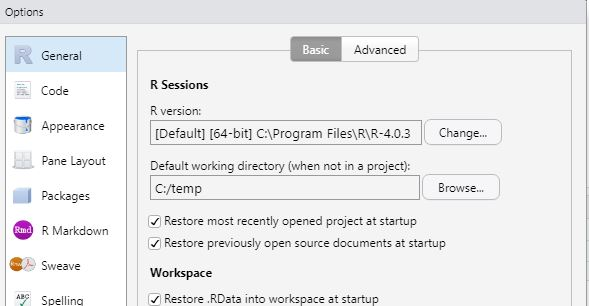
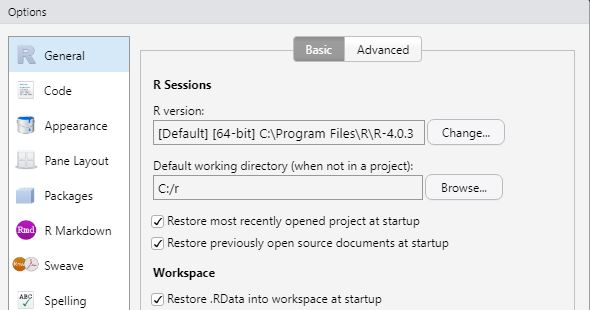
auto

Changed region(s): [[0.0, 0.0, 1.0, 1.0], [0.0, 0.0294, 0.0917, 0.0588]]

diff --git a/_posts/2020-11-18-xr with tidyverse beginners guide.md b/_posts/2020-11-18-xr with tidyverse beginners guide.md
@@ -12,6 +12,28 @@ image: /assets/2020-10-27/davemateer.jpg
 
 <!-- [![alt text](/assets/2020-10-12/db.jpg "Db from Caspar Camille Rubin on Unsplash")](https://unsplash.com/@casparrubin) -->
 
+> Data Science:
+> Transforming your data into actionable insight.
+
+As a SaaS business owner this could be as simple as:
+
+- Making sure my servers are running
+- Keeping a close eye on application 4xx and 5xx webserver errors
+- Memory usage
+
+It could also be how to display reports well for example in my broken link checker product, how to display a large amount of data... and make ie easily actionable
+
+
+
+This article covers:
+
+- What is R
+- Tidying Data
+- Charting
+
+[Here is the next article covering Linear Regression](/2020/11/19/xlinear-regression)
+
+
 ## What is R
 
 [r-project.org](https://www.r-project.org/) is a programming language that implements statistics and graphical techniques
@@ -25,8 +47,14 @@ R is an implmentation of S combined with semantics inspired by Scheme.
 
 ## Why use R / Who uses R
 
-Biology Scientists - analyse experimental data
-Data Scientists - wrange data
+- Biology Scientists - analyse experimental data
+- Data Scientists - wrangle data
+
+I've noticed that people who know Python / C# (or a high level language) tend to use that for the wrangling
+
+[Pandas](http://www.python-ds.com/python-data-wrangling) is a common Python library for wrangling
+
+For storage if you're comfortable with SQL often people store the data in Postgres / MySQL then chart with R. This means you can use SQL to get the data out of the db in the shape you want.
 
 - Data Manipulation / [Data Wrangling](https://en.wikipedia.org/wiki/Data_wrangling) / Data Munging - transforming raw data into another formating with the intent of making it more appropriate. (Dplry package in Tidyverse) - pronounced dee plier
 - Tidying data ie changing it. (tidyr packacke in Tidyverse)
@@ -53,32 +81,24 @@ implements a wide variety of stats and graphics techniques
    - classification
    - clustering
 
-## Use cases
-
-I've noticed that people who know Python / C# (or a high level language) tend to use that for the wrangling
-
-[Pandas](http://www.python-ds.com/python-data-wrangling) is a common Python library for wrangling
-
-For storage if you're comfortable with SQL often people store the data in Postgres / MySQL then chart with R. This means you can use SQL to get the data out of the db in the shape you want.
-
-
 ## What is Tidyverse
 
 [Tidyverse](https://www.tidyverse.org/) is an opinionated collection of R packages.
 
-## R and R Studio
+## R and RStudio
 
 Download the latest version of R from [r-project.org](https://www.r-project.org/) - currently on 4.0.3 on 6th Nov 2020
 
-Download [R Studio](https://rstudio.com/products/rstudio/download/#download) - 1.3.1093 on 6th Nov 2020.
+Download [RStudio](https://rstudio.com/products/rstudio/download/#download) - 1.3.1093 on 6th Nov 2020.
 
-There is a [code run / snipper / viewer extension for VS Code](https://marketplace.visualstudio.com/items?itemName=Ikuyadeu.r) which has 250k downloads.
 
 ![alt text](/assets/2020-11-06/settings.jpg "Configuring R Studio"){:width="400px"}
 
-I prefer to set my default directory to `c:\r` so when working on different machines there is no communcation except from raw R files projects which will be in Git.
+`Tools, Global Options` 
 
-Whilst here
+I prefer to set my default directory to `c:\r` so when working on different machines there is no communcation except from raw R files projects which will be in Git. The default user directory for me was linked to my OneDrive.
+
+Whilst here these are my preferences:
 
 - General - working folder as c:\r
 - Code, Soft wrap R files tick
@@ -87,6 +107,10 @@ Whilst here
 - Packages, change CRAN mirror to UK (London)
 - Appearance, Editor Theme, Pastel on Dark
 - Appearance, Editor font, Consolas
+
+![alt text](/assets/2020-11-06/rstudio.jpg "RStudio"){:width="800px"}
+
+My preferred RStudio setup
 
 ## R Packages
 
@@ -151,7 +175,7 @@ okay so we are good to go
 
 ## R Studio Keyboard shortcuts
 
-ctrl enter - run
+ctrl enter - run - This is by far my most used keyboard shortcut
 
 ctrl shift c - comment / uncomment
 
@@ -166,7 +190,7 @@ alt - assignment <-
 # clear R of all objects
 rm(list=ls())
 
-# install on local machine
+# install package on local machine
 install.packages("tidyverse")
 
 # bring in tidyverse library
@@ -179,15 +203,17 @@ df_stuffcount <- read_csv("StuffCount.csv")
 
 # useful to print all the df
 print.data.frame(.)
-
 ```
 
 ## Pluralsight
 
+[Data Science with R by Matthew Renze](https://app.pluralsight.com/library/courses/r-data-science/table-of-contents)
+
 [Tidyverse: R Playbook](https://app.pluralsight.com/library/courses/tidyverse-r-playbook/table-of-contents)
 
-The goal is to turn data into information, and information into insight
-  Carly Fiorina
+> The goal (of data science) is to turn data into information, and information into insight
+
+Carly Fiorina - former CEO of HP
 
 ## Reading data
 
@@ -196,7 +222,7 @@ The goal is to turn data into information, and information into insight
 eg read_csv()
 read_log() - web log files
 
-[Also lots of other sources](https://www.tidyverse.org/packages/#import) including: Postgres, httr (Web API's), rvest (web)
+[Also lots of other sources](https://www.tidyverse.org/packages/#import) including: Postgres, httr (Web API's), rvest (web) however as a developer I'm going to stick to 
 
 <!-- ![alt text](/assets/2020-11-06/show-files.jpg "Show files"){:width="700px"} -->
 ![alt text](/assets/2020-11-06/show-files.jpg "Show files")
@@ -265,17 +291,10 @@ View(df_stuff)
 # view a histogram of the vector (array of dbl's)
 # this part of base R and not tidyverse
 hist(df_stuff$TREATMENT)
-
 ```
 
-## R Markdown or R Notebooks
-
-spiral notebook icon
-
-ctrl shift k - compile to html
-
 ## R for a C# Application Buidler
-https://stackoverflow.com/questions/5664997/logfile-analysis-in-r
+[Logfile Analysis in R](https://stackoverflow.com/questions/5664997/logfile-analysis-in-r)
 
 log file analysis
 server log analysis
@@ -298,10 +317,9 @@ Here is some sample code:
 library(DBI)
 library(tidyverse)
 
-# Connect to a specific postgres database i.e. Heroku
 con <- dbConnect(RPostgres::Postgres(),dbname = 'imdbr', 
                  host = 'localhost',
-                 port = 5432, # or any other port specified by your DBA
+                 port = 5432,
                  user = 'postgres',
                  password = 'letmein')
 
@@ -315,35 +333,13 @@ dbReadTable(con, "rating")
 res <- dbSendQuery(con, "SELECT * FROM rating limit 100")
 dbFetch(res)
 
-# does send and fetch
+# does send and fetch together - handy
 df_ratings <- dbGetQuery(con, "SELECT * FROM rating limit 100")
-
 df_ratings
 
 summary(df_ratings)
 
 hist(df_ratings$average_rating)
-
-# lets flatten the data in the db into a new table for analysis
-# tconst, primary_title, start_year, genres, average_rating, num_votes
-# 
-# SELECT t.tconst, primary_title, start_year, genres, r.average_rating, r.num_votes
-# INTO TABLE thing
-# FROM title t
-# LEFT OUTER JOIN rating r on r.tconst = t.tconst
-# WHERE t.start_year < 2021
-
-df_thing <- dbGetQuery(con, "SELECT * FROM thing")
-# 487,254 rows (just movies which may may average_rating / num_votes)
-
-df_thing
-View(df_thing)
-
-hist(df_thing$average_rating)
-
-hist(df_thing$num_votes)
-
-hist(df_thing$start_year)
 ```
 
 ## Analysing data

diff --git a/_posts/2020-11-19-xlinear regression.md b/_posts/2020-11-19-xlinear regression.md
@@ -1,6 +1,6 @@
 ---
 layout: post
-title: Statistics 
+title: Linear Regresssion 
 description: 
 menu: review
 categories: R Statistics
@@ -13,16 +13,18 @@ image: /assets/2020-10-27/davemateer.jpg
 <!-- [![alt text](/assets/2020-10-12/db.jpg "Db from Caspar Camille Rubin on Unsplash")](https://unsplash.com/@casparrubin) -->
 
 
-- 1 What is R
-- 2 Tidying data
-- 3 Charting
-- 4 Regression
+[R and Tidyverse Beginners Guide](/2020/11/18/xr-with-tidyverse-beginners-guide) is my previous article to this
+
+This article in on Linear Regression.
+
+There may be articles in the future here on 
+
 - 5 Multiple Regression
 - 6 ANCOVA
 - 7 Generalised
 - 8 Mixed
 
-These are some notes on a Statistics course I'm doing which is geared towards biological scientists. The joy of finding things out and exploring something different..  
+Essentially these are findings on a Statistics course I did which is geared towards biological scientists. The joy of finding things out and exploring something different..  
 
 I wonder what practical use it can be for me as a SaaS owner
 
